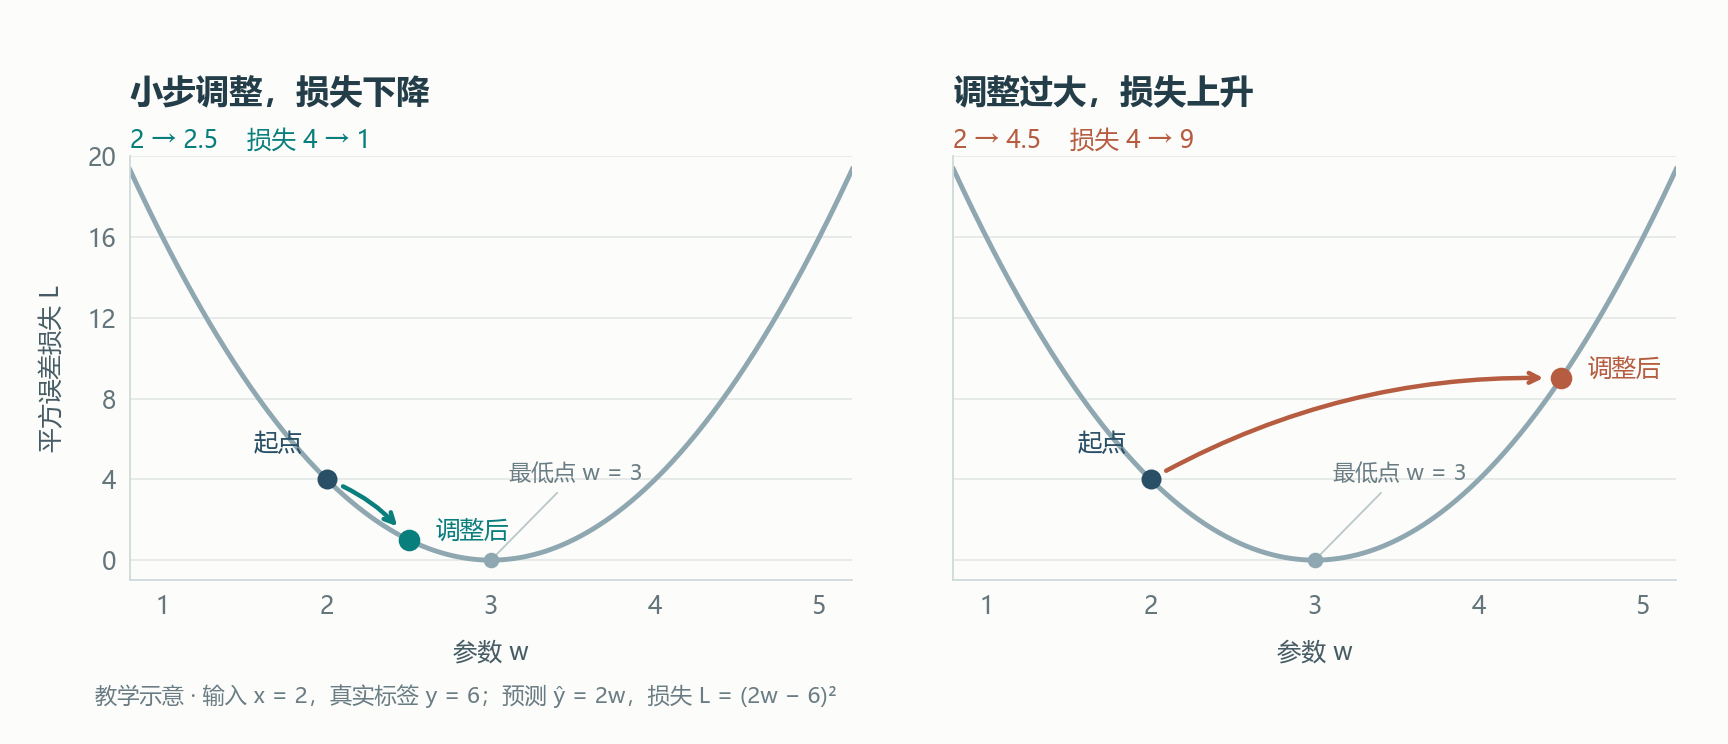
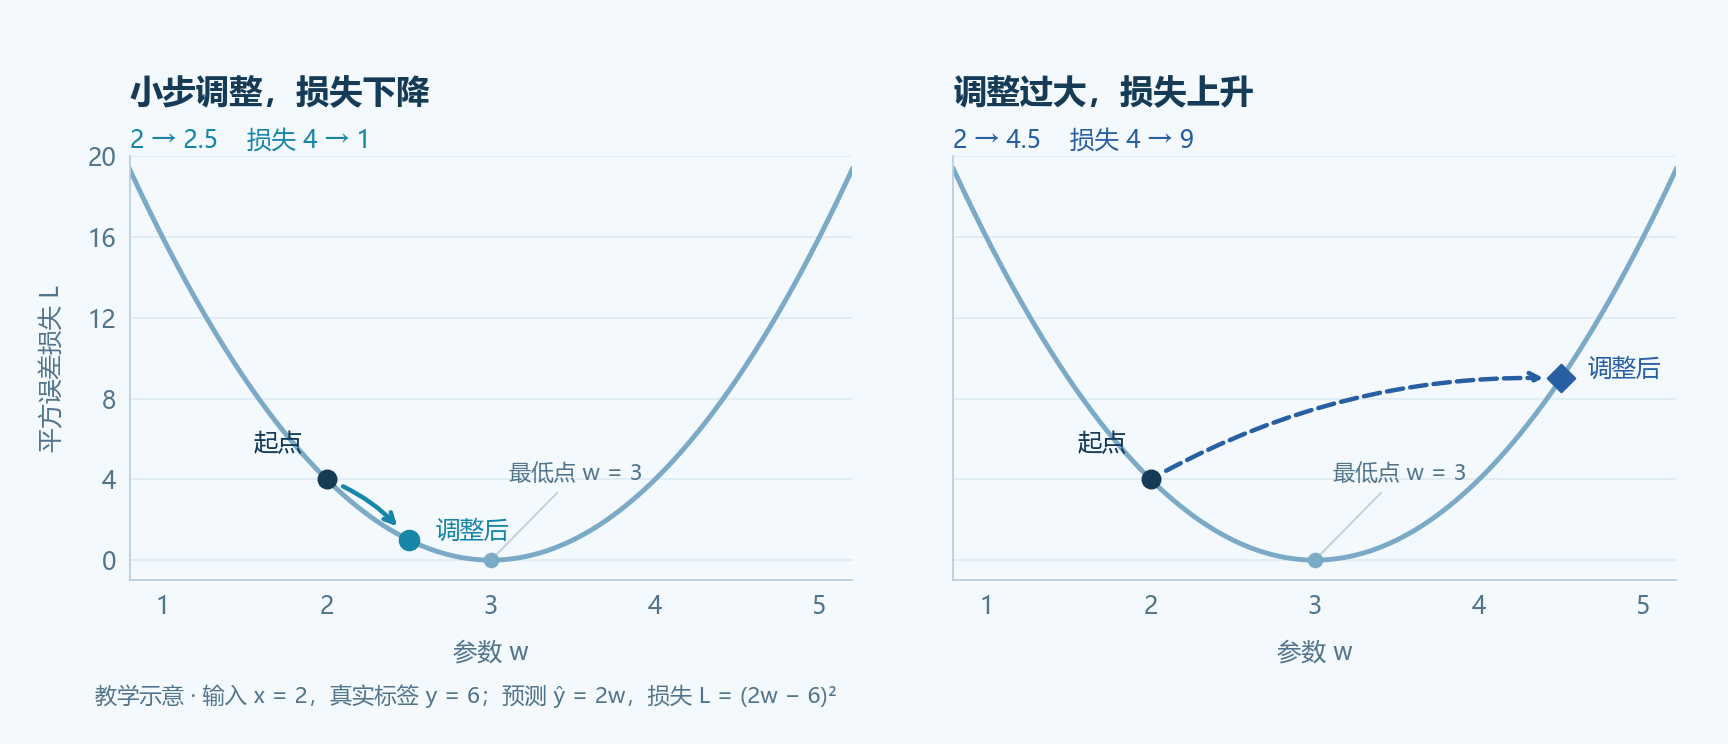
style: adopt an ocean blue palette for learning figures

diff --git a/scripts/plot_parameter_loss.py b/scripts/plot_parameter_loss.py
@@ -11,6 +11,16 @@ from matplotlib.font_manager import FontProperties, findfont
 
 ROOT = Path(__file__).resolve().parents[1]
 OUTPUT = ROOT / "assets/images/parameter-loss.png"
+COLORS = {
+    "background": "#F4F9FD",
+    "ink": "#153B57",
+    "muted": "#53758C",
+    "curve": "#7AAAC6",
+    "small_step": "#1685A8",
+    "large_step": "#285FA3",
+    "grid": "#DCEAF3",
+    "guide": "#B9CFDF",
+}
 
 
 def main():
@@ -21,35 +31,36 @@ def main():
         "font.family": FontProperties(fname=font).get_name(),
         "font.size": 11,
         "axes.unicode_minus": False,
-        "text.color": "#243e49",
-        "axes.labelcolor": "#465c65",
-        "xtick.color": "#64757b",
-        "ytick.color": "#64757b",
+        "text.color": COLORS["ink"],
+        "axes.labelcolor": COLORS["muted"],
+        "xtick.color": COLORS["muted"],
+        "ytick.color": COLORS["muted"],
     })
     values = [0.8 + index * 0.01 for index in range(441)]
     losses = [(2 * value - 6) ** 2 for value in values]
     fig, axes = plt.subplots(1, 2, figsize=(10.8, 4.65), sharex=True, sharey=True)
-    fig.patch.set_facecolor("#fcfcfa")
+    fig.patch.set_facecolor(COLORS["background"])
     panels = [
-        (axes[0], 2.5, "#087e7d", "小步调整，损失下降", "2 → 2.5    损失 4 → 1"),
-        (axes[1], 4.5, "#b65c40", "调整过大，损失上升", "2 → 4.5    损失 4 → 9"),
+        (axes[0], 2.5, COLORS["small_step"], "-", "o", "小步调整，损失下降", "2 → 2.5    损失 4 → 1"),
+        (axes[1], 4.5, COLORS["large_step"], "--", "D", "调整过大，损失上升", "2 → 4.5    损失 4 → 9"),
     ]
-    for ax, endpoint, accent, title, subtitle in panels:
-        ax.set_facecolor("#fcfcfa")
-        ax.plot(values, losses, color="#8fa7b0", linewidth=2.2, zorder=2)
-        ax.scatter([3], [0], s=36, color="#8fa7b0", zorder=4)
+    for ax, endpoint, accent, line_style, marker, title, subtitle in panels:
+        ax.set_facecolor(COLORS["background"])
+        ax.plot(values, losses, color=COLORS["curve"], linewidth=2.2, zorder=2)
+        ax.scatter([3], [0], s=36, color=COLORS["curve"], zorder=4)
         ax.annotate("最低点 w = 3", (3, 0), xytext=(8, 36),
-                    textcoords="offset points", color="#6a7d84", fontsize=10,
-                    arrowprops={"arrowstyle": "-", "color": "#b9c7ca", "linewidth": 0.8})
+                    textcoords="offset points", color=COLORS["muted"], fontsize=10,
+                    arrowprops={"arrowstyle": "-", "color": COLORS["guide"], "linewidth": 0.8})
         end_loss = (2 * endpoint - 6) ** 2
-        ax.scatter([2], [4], s=64, color="#294f67", zorder=5)
-        ax.scatter([endpoint], [end_loss], s=76, color=accent, zorder=5)
+        ax.scatter([2], [4], s=64, color=COLORS["ink"], zorder=5)
+        ax.scatter([endpoint], [end_loss], s=76, color=accent, marker=marker, zorder=5)
         ax.annotate("起点", (2, 4), xytext=(-33, 13),
-                    textcoords="offset points", color="#294f67")
+                    textcoords="offset points", color=COLORS["ink"])
         ax.annotate("调整后", (endpoint, end_loss), xytext=(12, 1),
                     textcoords="offset points", color=accent)
         ax.annotate("", xy=(endpoint, end_loss), xytext=(2, 4), arrowprops={
             "arrowstyle": "->", "color": accent, "linewidth": 2,
+            "linestyle": line_style,
             "connectionstyle": "arc3,rad=-0.14", "shrinkA": 8, "shrinkB": 8,
         })
         ax.set_title(title, loc="left", fontsize=15, fontweight="bold", pad=24)
@@ -59,14 +70,14 @@ def main():
         ax.set_ylim(-1, 20)
         ax.set_xticks([1, 2, 3, 4, 5])
         ax.set_yticks([0, 4, 8, 12, 16, 20])
-        ax.grid(axis="y", color="#e1e7e6", linewidth=0.7)
+        ax.grid(axis="y", color=COLORS["grid"], linewidth=0.7)
         ax.set_axisbelow(True)
         ax.spines[["top", "right"]].set_visible(False)
-        ax.spines[["bottom", "left"]].set_color("#d0dada")
+        ax.spines[["bottom", "left"]].set_color(COLORS["guide"])
         ax.tick_params(length=0, pad=6)
     axes[0].set_ylabel("平方误差损失 L", labelpad=10)
     fig.text(0.055, 0.055, "教学示意 · 输入 x = 2，真实标签 y = 6；预测 ŷ = 2w，损失 L = (2w − 6)²",
-             color="#6a7d84", fontsize=10)
+             color=COLORS["muted"], fontsize=10)
     fig.subplots_adjust(left=0.075, right=0.97, top=0.79, bottom=0.22, wspace=0.14)
     OUTPUT.parent.mkdir(parents=True, exist_ok=True)
     fig.savefig(OUTPUT, dpi=160, facecolor=fig.get_facecolor())

diff --git a/docs/design.md b/docs/design.md
@@ -2,6 +2,21 @@
 
 [返回首页](../README.md)
 
+## 海洋蓝配色
+
+2026-11-26 记录：后续学习图示以蓝色系、海洋色系为主。
+
+| 用途 | 颜色 | 色值 |
+| --- | --- | --- |
+| 标题、正文与起点 | 深海蓝 | `#153B57` |
+| 主强调色 | 海洋蓝 | `#1D6FA5` |
+| 辅助强调色 | 青蓝 | `#1685A8` |
+| 第二组对照 | 深蓝 | `#285FA3` |
+| 次要曲线 | 浅海蓝 | `#7AAAC6` |
+| 背景 | 浅蓝白 | `#F4F9FD` |
+
+同一张图尽量使用两三种主要颜色。不同情况同时用实线、虚线、圆点、菱形或文字区分，保持缩小后可读。照片优先选择海洋观测实拍；灰度数组等具有数值含义的图保留原有数据映射。
+
 ## 排版
 
 首页从个人起点与当前进度展开，随后说明识别、检测和学习顺序，最后回到已有成果和计划中的作品。顶部导航用于跳转，维护命令和目录收进折叠区，方便以后持续增长。
